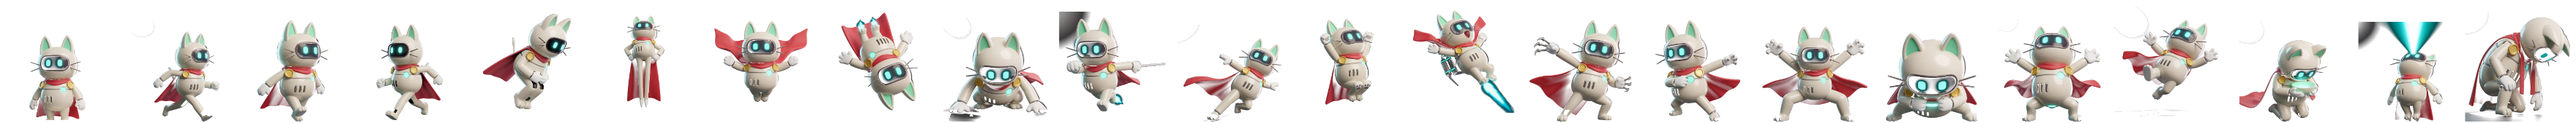
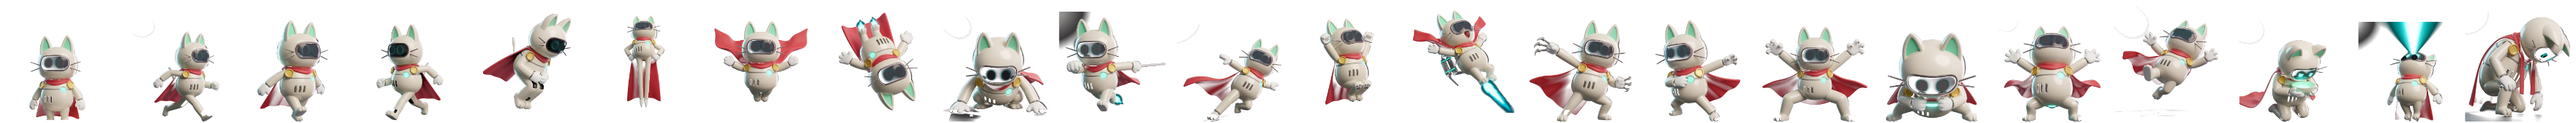
She has two eyes: the baked pair is painted out, the live pair is the only pair
Owner: "You have created double eyes, one that is moving on top of the static
3D, but it is not actually correctly placed. It's underneath the eyes...
The character now has four eyes." He is right, and it is visible on the title
screen as well as in play.

The cause is not the anchors. Marking them onto the sheet shows every one
landing dead centre on the baked eye. The cause is SIZE: drawHeroEyes repaints
from ew/eh, which heroeyes.cjs measures off the brightest cyan CORE, not the
whole lens. So the repaint is correctly placed and too small, and the rim of
the baked eye stays visible around it. Two lenses, two repaints, four eyes.

Chasing the size is the wrong fix and the history says so — it has already
been wrong in both directions, drawn at double and then halved, and any size
that suits idle is wrong for the poses where her head is turned away.

So this deletes the thing being doubled. tools/heroeyeclean.cjs paints the
baked eye-lights out to the visor's own dark — sampled from an annulus just
outside each eye so the mask keeps its shading instead of getting a flat black
patch — across all 22 cells. The live pair is now the ONLY pair, which is what
the live-repaint design wanted in the first place, and the anchor and size now
only have to be plausible rather than pixel-exact.

tools/heroeye.json is the anchor table exported from HERO_EYE so the tool and
the renderer cannot drift apart.

tests/run.cjs hero artbible platform green.
[…]

diff --git a/index.html b/index.html
@@ -225,7 +225,7 @@
 })();
 </script>
 
-<script>window.BUILD_ID="msw5mwxd";window.GAME_LOCK="robo";window.MUS_FILES={"ambient_observing_the_star":"assets/music/ambient_observing_the_star.ogg","epic_combat":"assets/music/epic_combat.ogg","mus_alpha":"assets/music/mus_alpha.m4a","mus_alphatame":"assets/music/mus_alphatame.m4a","mus_archives":"assets/music/mus_archives.m4a","mus_boss":"assets/music/mus_boss.m4a","mus_cache":"assets/music/mus_cache.m4a","mus_conduits":"assets/music/mus_conduits.m4a","mus_ending":"assets/music/mus_ending.m4a","mus_eye":"assets/music/mus_eye.m4a","mus_foundry":"assets/music/mus_foundry.m4a","mus_furnace":"assets/music/mus_furnace.m4a","mus_glaciere":"assets/music/mus_glaciere.m4a","mus_intro":"assets/music/mus_intro.m4a","mus_meadows":"assets/music/mus_meadows.m4a","mus_mother":"assets/music/mus_mother.m4a","mus_nest":"assets/music/mus_nest.m4a","mus_nullfang":"assets/music/mus_nullfang.m4a","mus_prism":"assets/music/mus_prism.m4a","mus_talonhost":"assets/music/mus_talonhost.m4a","mus_title":"assets/music/mus_title.m4a"};window.VID_FILES={"end_atlas":"assets/video/end_atlas.mp4","end_brood":"assets/video/end_brood.mp4","end_close":"assets/video/end_close.mp4","end_folk":"assets/video/end_folk.mp4","end_glitch":"assets/video/end_glitch.mp4","end_mother":"assets/video/end_mother.mp4","end_open":"assets/video/end_open.mp4","end_prism":"assets/video/end_prism.mp4","end_zero":"assets/video/end_zero.mp4","intro1":"assets/video/intro1.mp4","intro2":"assets/video/intro2.mp4","intro3":"assets/video/intro3.mp4","intro4":"assets/video/intro4.mp4","intro5":"assets/video/intro5.mp4","intro6":"assets/video/intro6.mp4","intro7":"assets/video/intro7.mp4","intro8":"assets/video/intro8.mp4","purify_atlas":"assets/video/purify_atlas.mp4","purify_brood":"assets/video/purify_brood.mp4","purify_glitch":"assets/video/purify_glitch.mp4","purify_prism":"assets/video/purify_prism.mp4","purify_zero":"assets/video/purify_zero.mp4","sword_forge":"assets/video/sword_forge.mp4","sword_gift":"assets/video/sword_gift.mp4"};window.VID_ALT={"end_atlas":"assets/video/end_atlas.webm","end_brood":"assets/video/end_brood.webm","end_close":"assets/video/end_close.webm","end_folk":"assets/video/end_folk.webm","end_glitch":"assets/video/end_glitch.webm","end_mother":"assets/video/end_mother.webm","end_open":"assets/video/end_open.webm","end_prism":"assets/video/end_prism.webm","end_zero":"assets/video/end_zero.webm","intro1":"assets/video/intro1.webm","intro2":"assets/video/intro2.webm","intro3":"assets/video/intro3.webm","intro4":"assets/video/intro4.webm","intro5":"assets/video/intro5.webm","intro6":"assets/video/intro6.webm","intro7":"assets/video/intro7.webm","intro8":"assets/video/intro8.webm","purify_atlas":"assets/video/purify_atlas.webm","purify_brood":"assets/video/purify_brood.webm","purify_glitch":"assets/video/purify_glitch.webm","purify_prism":"assets/video/purify_prism.webm","purify_zero":"assets/video/purify_zero.webm","sword_forge":"assets/video/sword_forge.webm","sword_gift":"assets/video/sword_gift.webm"};window.VID_LIGHT={
+<script>window.BUILD_ID="msw5xm67";window.GAME_LOCK="robo";window.MUS_FILES={"ambient_observing_the_star":"assets/music/ambient_observing_the_star.ogg","epic_combat":"assets/music/epic_combat.ogg","mus_alpha":"assets/music/mus_alpha.m4a","mus_alphatame":"assets/music/mus_alphatame.m4a","mus_archives":"assets/music/mus_archives.m4a","mus_boss":"assets/music/mus_boss.m4a","mus_cache":"assets/music/mus_cache.m4a","mus_conduits":"assets/music/mus_conduits.m4a","mus_ending":"assets/music/mus_ending.m4a","mus_eye":"assets/music/mus_eye.m4a","mus_foundry":"assets/music/mus_foundry.m4a","mus_furnace":"assets/music/mus_furnace.m4a","mus_glaciere":"assets/music/mus_glaciere.m4a","mus_intro":"assets/music/mus_intro.m4a","mus_meadows":"assets/music/mus_meadows.m4a","mus_mother":"assets/music/mus_mother.m4a","mus_nest":"assets/music/mus_nest.m4a","mus_nullfang":"assets/music/mus_nullfang.m4a","mus_prism":"assets/music/mus_prism.m4a","mus_talonhost":"assets/music/mus_talonhost.m4a","mus_title":"assets/music/mus_title.m4a"};window.VID_FILES={"end_atlas":"assets/video/end_atlas.mp4","end_brood":"assets/video/end_brood.mp4","end_close":"assets/video/end_close.mp4","end_folk":"assets/video/end_folk.mp4","end_glitch":"assets/video/end_glitch.mp4","end_mother":"assets/video/end_mother.mp4","end_open":"assets/video/end_open.mp4","end_prism":"assets/video/end_prism.mp4","end_zero":"assets/video/end_zero.mp4","intro1":"assets/video/intro1.mp4","intro2":"assets/video/intro2.mp4","intro3":"assets/video/intro3.mp4","intro4":"assets/video/intro4.mp4","intro5":"assets/video/intro5.mp4","intro6":"assets/video/intro6.mp4","intro7":"assets/video/intro7.mp4","intro8":"assets/video/intro8.mp4","purify_atlas":"assets/video/purify_atlas.mp4","purify_brood":"assets/video/purify_brood.mp4","purify_glitch":"assets/video/purify_glitch.mp4","purify_prism":"assets/video/purify_prism.mp4","purify_zero":"assets/video/purify_zero.mp4","sword_forge":"assets/video/sword_forge.mp4","sword_gift":"assets/video/sword_gift.mp4"};window.VID_ALT={"end_atlas":"assets/video/end_atlas.webm","end_brood":"assets/video/end_brood.webm","end_close":"assets/video/end_close.webm","end_folk":"assets/video/end_folk.webm","end_glitch":"assets/video/end_glitch.webm","end_mother":"assets/video/end_mother.webm","end_open":"assets/video/end_open.webm","end_prism":"assets/video/end_prism.webm","end_zero":"assets/video/end_zero.webm","intro1":"assets/video/intro1.webm","intro2":"assets/video/intro2.webm","intro3":"assets/video/intro3.webm","intro4":"assets/video/intro4.webm","intro5":"assets/video/intro5.webm","intro6":"assets/video/intro6.webm","intro7":"assets/video/intro7.webm","intro8":"assets/video/intro8.webm","purify_atlas":"assets/video/purify_atlas.webm","purify_brood":"assets/video/purify_brood.webm","purify_glitch":"assets/video/purify_glitch.webm","purify_prism":"assets/video/purify_prism.webm","purify_zero":"assets/video/purify_zero.webm","sword_forge":"assets/video/sword_forge.webm","sword_gift":"assets/video/sword_gift.webm"};window.VID_LIGHT={
  "end_atlas": "assets/video/light/end_atlas.mp4",
  "end_brood": "assets/video/light/end_brood.mp4",
  "end_close": "assets/video/light/end_close.mp4",

diff --git a/odyssey.html b/odyssey.html
@@ -225,7 +225,7 @@
 })();
 </script>
 
-<script>window.BUILD_ID="msw5mwxd";window.GAME_LOCK="hero";window.MUS_FILES={"ambient_observing_the_star":"assets/music/ambient_observing_the_star.ogg","epic_combat":"assets/music/epic_combat.ogg","mus_alpha":"assets/music/mus_alpha.m4a","mus_alphatame":"assets/music/mus_alphatame.m4a","mus_archives":"assets/music/mus_archives.m4a","mus_boss":"assets/music/mus_boss.m4a","mus_cache":"assets/music/mus_cache.m4a","mus_conduits":"assets/music/mus_conduits.m4a","mus_ending":"assets/music/mus_ending.m4a","mus_eye":"assets/music/mus_eye.m4a","mus_foundry":"assets/music/mus_foundry.m4a","mus_furnace":"assets/music/mus_furnace.m4a","mus_glaciere":"assets/music/mus_glaciere.m4a","mus_intro":"assets/music/mus_intro.m4a","mus_meadows":"assets/music/mus_meadows.m4a","mus_mother":"assets/music/mus_mother.m4a","mus_nest":"assets/music/mus_nest.m4a","mus_nullfang":"assets/music/mus_nullfang.m4a","mus_prism":"assets/music/mus_prism.m4a","mus_talonhost":"assets/music/mus_talonhost.m4a","mus_title":"assets/music/mus_title.m4a"};window.VID_FILES={"end_atlas":"assets/video/end_atlas.mp4","end_brood":"assets/video/end_brood.mp4","end_close":"assets/video/end_close.mp4","end_folk":"assets/video/end_folk.mp4","end_glitch":"assets/video/end_glitch.mp4","end_mother":"assets/video/end_mother.mp4","end_open":"assets/video/end_open.mp4","end_prism":"assets/video/end_prism.mp4","end_zero":"assets/video/end_zero.mp4","intro1":"assets/video/intro1.mp4","intro2":"assets/video/intro2.mp4","intro3":"assets/video/intro3.mp4","intro4":"assets/video/intro4.mp4","intro5":"assets/video/intro5.mp4","intro6":"assets/video/intro6.mp4","intro7":"assets/video/intro7.mp4","intro8":"assets/video/intro8.mp4","purify_atlas":"assets/video/purify_atlas.mp4","purify_brood":"assets/video/purify_brood.mp4","purify_glitch":"assets/video/purify_glitch.mp4","purify_prism":"assets/video/purify_prism.mp4","purify_zero":"assets/video/purify_zero.mp4","sword_forge":"assets/video/sword_forge.mp4","sword_gift":"assets/video/sword_gift.mp4"};window.VID_ALT={"end_atlas":"assets/video/end_atlas.webm","end_brood":"assets/video/end_brood.webm","end_close":"assets/video/end_close.webm","end_folk":"assets/video/end_folk.webm","end_glitch":"assets/video/end_glitch.webm","end_mother":"assets/video/end_mother.webm","end_open":"assets/video/end_open.webm","end_prism":"assets/video/end_prism.webm","end_zero":"assets/video/end_zero.webm","intro1":"assets/video/intro1.webm","intro2":"assets/video/intro2.webm","intro3":"assets/video/intro3.webm","intro4":"assets/video/intro4.webm","intro5":"assets/video/intro5.webm","intro6":"assets/video/intro6.webm","intro7":"assets/video/intro7.webm","intro8":"assets/video/intro8.webm","purify_atlas":"assets/video/purify_atlas.webm","purify_brood":"assets/video/purify_brood.webm","purify_glitch":"assets/video/purify_glitch.webm","purify_prism":"assets/video/purify_prism.webm","purify_zero":"assets/video/purify_zero.webm","sword_forge":"assets/video/sword_forge.webm","sword_gift":"assets/video/sword_gift.webm"};window.VID_LIGHT={
+<script>window.BUILD_ID="msw5xm67";window.GAME_LOCK="hero";window.MUS_FILES={"ambient_observing_the_star":"assets/music/ambient_observing_the_star.ogg","epic_combat":"assets/music/epic_combat.ogg","mus_alpha":"assets/music/mus_alpha.m4a","mus_alphatame":"assets/music/mus_alphatame.m4a","mus_archives":"assets/music/mus_archives.m4a","mus_boss":"assets/music/mus_boss.m4a","mus_cache":"assets/music/mus_cache.m4a","mus_conduits":"assets/music/mus_conduits.m4a","mus_ending":"assets/music/mus_ending.m4a","mus_eye":"assets/music/mus_eye.m4a","mus_foundry":"assets/music/mus_foundry.m4a","mus_furnace":"assets/music/mus_furnace.m4a","mus_glaciere":"assets/music/mus_glaciere.m4a","mus_intro":"assets/music/mus_intro.m4a","mus_meadows":"assets/music/mus_meadows.m4a","mus_mother":"assets/music/mus_mother.m4a","mus_nest":"assets/music/mus_nest.m4a","mus_nullfang":"assets/music/mus_nullfang.m4a","mus_prism":"assets/music/mus_prism.m4a","mus_talonhost":"assets/music/mus_talonhost.m4a","mus_title":"assets/music/mus_title.m4a"};window.VID_FILES={"end_atlas":"assets/video/end_atlas.mp4","end_brood":"assets/video/end_brood.mp4","end_close":"assets/video/end_close.mp4","end_folk":"assets/video/end_folk.mp4","end_glitch":"assets/video/end_glitch.mp4","end_mother":"assets/video/end_mother.mp4","end_open":"assets/video/end_open.mp4","end_prism":"assets/video/end_prism.mp4","end_zero":"assets/video/end_zero.mp4","intro1":"assets/video/intro1.mp4","intro2":"assets/video/intro2.mp4","intro3":"assets/video/intro3.mp4","intro4":"assets/video/intro4.mp4","intro5":"assets/video/intro5.mp4","intro6":"assets/video/intro6.mp4","intro7":"assets/video/intro7.mp4","intro8":"assets/video/intro8.mp4","purify_atlas":"assets/video/purify_atlas.mp4","purify_brood":"assets/video/purify_brood.mp4","purify_glitch":"assets/video/purify_glitch.mp4","purify_prism":"assets/video/purify_prism.mp4","purify_zero":"assets/video/purify_zero.mp4","sword_forge":"assets/video/sword_forge.mp4","sword_gift":"assets/video/sword_gift.mp4"};window.VID_ALT={"end_atlas":"assets/video/end_atlas.webm","end_brood":"assets/video/end_brood.webm","end_close":"assets/video/end_close.webm","end_folk":"assets/video/end_folk.webm","end_glitch":"assets/video/end_glitch.webm","end_mother":"assets/video/end_mother.webm","end_open":"assets/video/end_open.webm","end_prism":"assets/video/end_prism.webm","end_zero":"assets/video/end_zero.webm","intro1":"assets/video/intro1.webm","intro2":"assets/video/intro2.webm","intro3":"assets/video/intro3.webm","intro4":"assets/video/intro4.webm","intro5":"assets/video/intro5.webm","intro6":"assets/video/intro6.webm","intro7":"assets/video/intro7.webm","intro8":"assets/video/intro8.webm","purify_atlas":"assets/video/purify_atlas.webm","purify_brood":"assets/video/purify_brood.webm","purify_glitch":"assets/video/purify_glitch.webm","purify_prism":"assets/video/purify_prism.webm","purify_zero":"assets/video/purify_zero.webm","sword_forge":"assets/video/sword_forge.webm","sword_gift":"assets/video/sword_gift.webm"};window.VID_LIGHT={
  "end_atlas": "assets/video/light/end_atlas.mp4",
  "end_brood": "assets/video/light/end_brood.mp4",
  "end_close": "assets/video/light/end_close.mp4",
